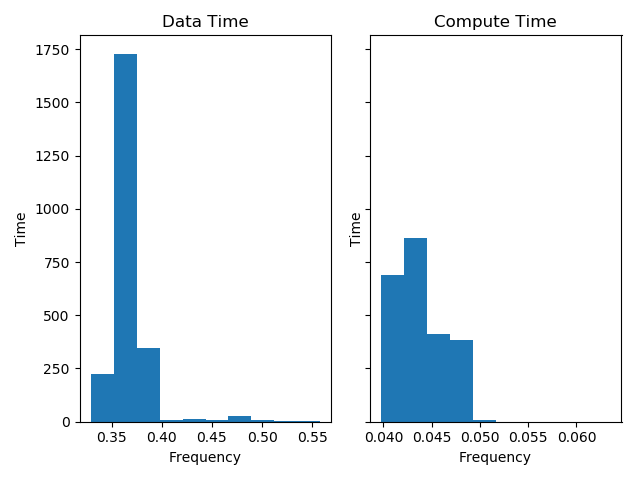
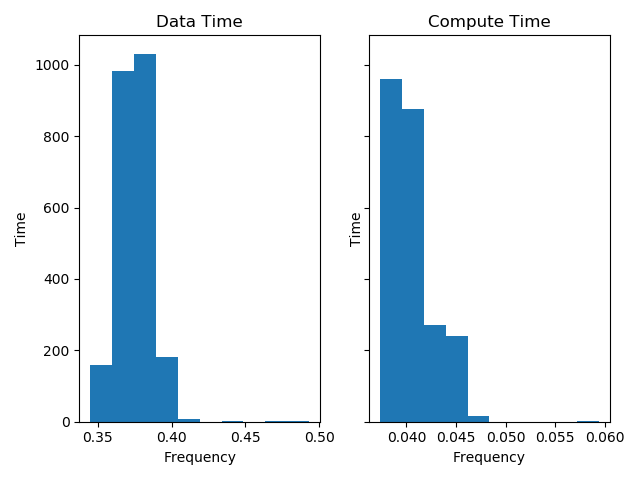
update plotting code

diff --git a/coco-resnet18/plotting.py b/coco-resnet18/plotting.py
@@ -1,11 +1,10 @@
-import matplotlib.pyplot as plt
-import numpy as np
 from matplotlib import colors
+from matplotlib import pyplot
 from matplotlib.ticker import PercentFormatter
 import csv
+import matplotlib.pyplot as plt
+import numpy as np
 import statistics as stat
-
-n_bins = 20
 
 # Get data and compute times
 data_times = []
@@ -16,27 +15,39 @@ with open("logs.csv") as csvfile:
         data_times.append(float(row[0]))
         compute_times.append(float(row[1]))
 
+def twoplots(data_times, compute_times, font_size):
+    fig, axs = plt.subplots(1, 2, sharey=True, tight_layout=True)
+    fig.set_figheight(2.5)
+    fig.set_figwidth(5)
 
-fig, axs = plt.subplots(1, 2, sharey=True, tight_layout=True)
+    axs[0].set_title("Data Time", fontsize=font_size)
+    axs[0].set_xlabel("Frequency", fontsize=font_size)
+    axs[0].set_ylabel("Time (s)", fontsize=font_size)
+    axs[0].hist(data_times, bins=32, color="skyblue")
+    # axs[0].xaxis.set_tick_params(labelsize=14)
+    # axs[0].yaxis.set_tick_params(labelsize=14)
+    print("Data Time statistics:")
+    print("Mean = " + str(stat.mean(data_times)))
+    print("Median = " + str(stat.median(data_times)))
+    print("Standard Deviation = " + str(stat.stdev(data_times)))
 
-axs[0].set_title("Data Time")
-axs[0].set_xlabel("Frequency")
-axs[0].set_ylabel("Time")
-axs[1].set_title("Compute Time")
-axs[1].set_xlabel("Frequency")
-axs[1].set_ylabel("Time")
+    axs[1].set_title("Compute Time", fontsize=font_size)
+    axs[1].set_xlabel("Frequency", fontsize=font_size)
+    axs[1].set_ylabel("Time (s)", fontsize=font_size)
+    axs[1].hist(compute_times, bins=32, color="pink")
+    # axs[1].xaxis.set_tick_params(labelsize=14)
+    print("Compute Time statistics:")
+    print("Mean = " + str(stat.mean(compute_times)))
+    print("Median = " + str(stat.median(compute_times)))
+    print("Standard Deviation = " + str(stat.stdev(compute_times)))
 
-axs[0].hist(data_times, bins=10)
-axs[1].hist(compute_times, bins=10)
-print("Data Time statistics:")
-print("Mean = " + str(stat.mean(data_times)))
-print("Median = " + str(stat.median(data_times)))
+    # plt.show()
+    plt.savefig("coco-resnet-18-data-vs-compute.png")
+    
+def oneplot(data_times, compute_times):
+    pyplot.hist(data_times, 32, alpha=0.5, label='Data Times')
+    pyplot.hist(compute_times, 32, alpha=0.5, label='Compute Times')
+    pyplot.legend(loc='upper right')
+    pyplot.show()
 
-print("Standard Deviation = " + str(stat.stdev(data_times)))
-print("Compute Time statistics:")
-print("Mean = " + str(stat.mean(compute_times)))
-print("Median = " + str(stat.median(compute_times)))
-print("Standard Deviation = " + str(stat.stdev(compute_times)))
-
-
-plt.savefig("histogram.png")
+twoplots(data_times, compute_times, 14)

diff --git a/coco-resnet/plotting.py b/coco-resnet/plotting.py
@@ -16,27 +16,33 @@ with open("logs.csv") as csvfile:
         data_times.append(float(row[0]))
         compute_times.append(float(row[1]))
 
+def twoplots(data_times, compute_times, font_size):
+    fig, axs = plt.subplots(1, 2, sharey=True, tight_layout=True)
+    fig.set_figheight(2.5)
+    fig.set_figwidth(5)
 
-fig, axs = plt.subplots(1, 2, sharey=True, tight_layout=True)
+    axs[0].set_title("Data Time", fontsize=font_size)
+    axs[0].set_xlabel("Frequency", fontsize=font_size)
+    axs[0].set_ylabel("Time (s)", fontsize=font_size)
+    axs[0].hist(data_times, bins=32, color="skyblue")
+    # axs[0].xaxis.set_tick_params(labelsize=14)
+    # axs[0].yaxis.set_tick_params(labelsize=14)
+    print("Data Time statistics:")
+    print("Mean = " + str(stat.mean(data_times)))
+    print("Median = " + str(stat.median(data_times)))
+    print("Standard Deviation = " + str(stat.stdev(data_times)))
 
-axs[0].set_title("Data Time")
-axs[0].set_xlabel("Frequency")
-axs[0].set_ylabel("Time")
-axs[1].set_title("Compute Time")
-axs[1].set_xlabel("Frequency")
-axs[1].set_ylabel("Time")
+    axs[1].set_title("Compute Time", fontsize=font_size)
+    axs[1].set_xlabel("Frequency", fontsize=font_size)
+    axs[1].set_ylabel("Time (s)", fontsize=font_size)
+    axs[1].hist(compute_times, bins=32, color="pink")
+    # axs[1].xaxis.set_tick_params(labelsize=14)
+    print("Compute Time statistics:")
+    print("Mean = " + str(stat.mean(compute_times)))
+    print("Median = " + str(stat.median(compute_times)))
+    print("Standard Deviation = " + str(stat.stdev(compute_times)))
 
-axs[0].hist(data_times, bins=10)
-axs[1].hist(compute_times, bins=10)
-print("Data Time statistics:")
-print("Mean = " + str(stat.mean(data_times)))
-print("Median = " + str(stat.median(data_times)))
+    # plt.show()
+    plt.savefig("coco-resnet-152-data-vs-compute.png")
 
-print("Standard Deviation = " + str(stat.stdev(data_times)))
-print("Compute Time statistics:")
-print("Mean = " + str(stat.mean(compute_times)))
-print("Median = " + str(stat.median(compute_times)))
-print("Standard Deviation = " + str(stat.stdev(compute_times)))
-
-
-plt.savefig("histogram.png")
+twoplots(data_times, compute_times, 14)
